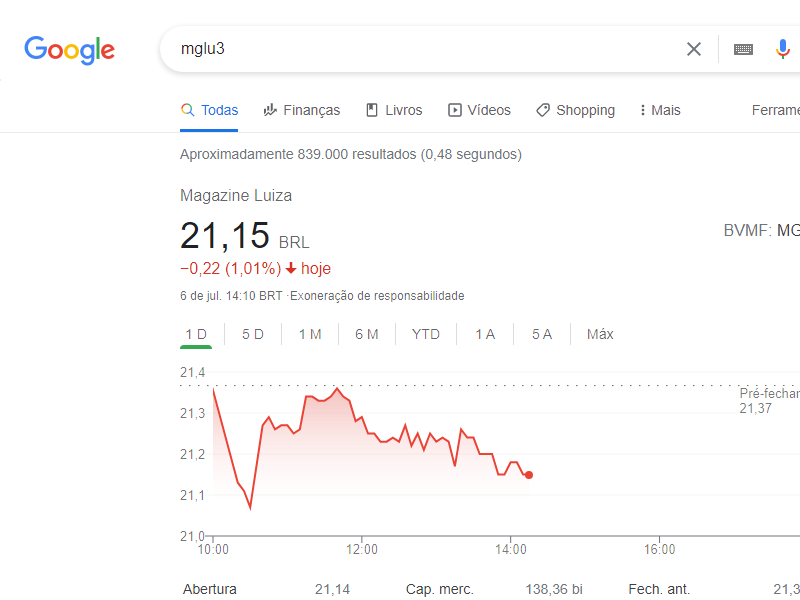
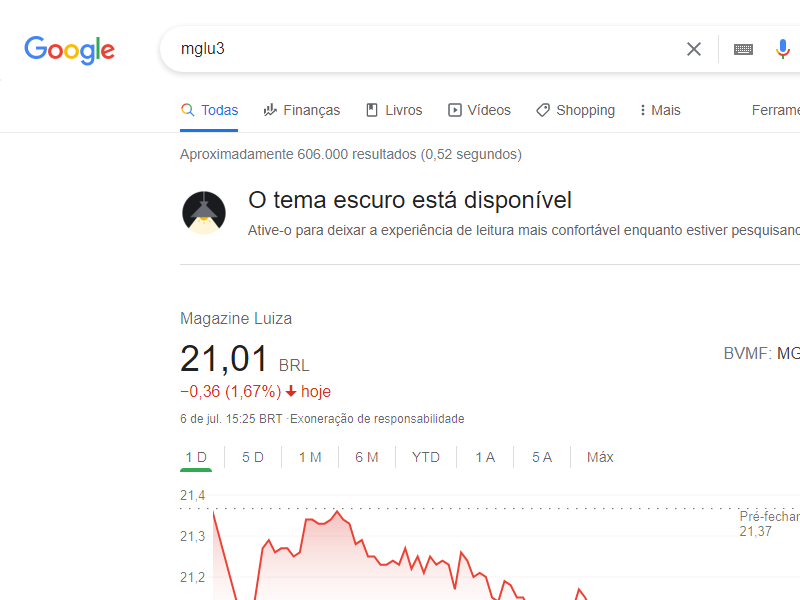
adicionando notificações

diff --git a/index.js b/index.js
@@ -1,4 +1,5 @@
 const puppeteer = require('puppeteer');
+const notifier = require('node-notifier');
 
 let url = 'https://www.google.com/search?q=mglu3';
 
@@ -10,7 +11,7 @@ let url = 'https://www.google.com/search?q=mglu3';
         return document.getElementsByClassName("IsqQVc NprOob")[0].innerText;
     });
     console.log(preco);
+    notifier.notify(preco);
     await page.screenshot({path: 'teste.png'});
     await browser.close();
 })();
-
